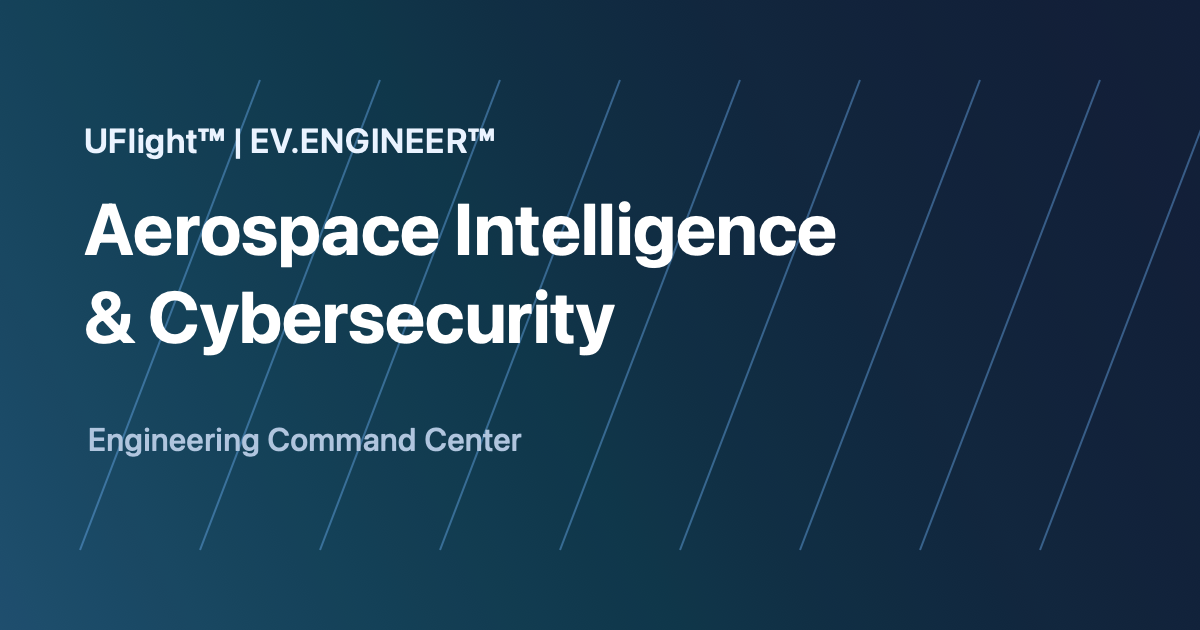
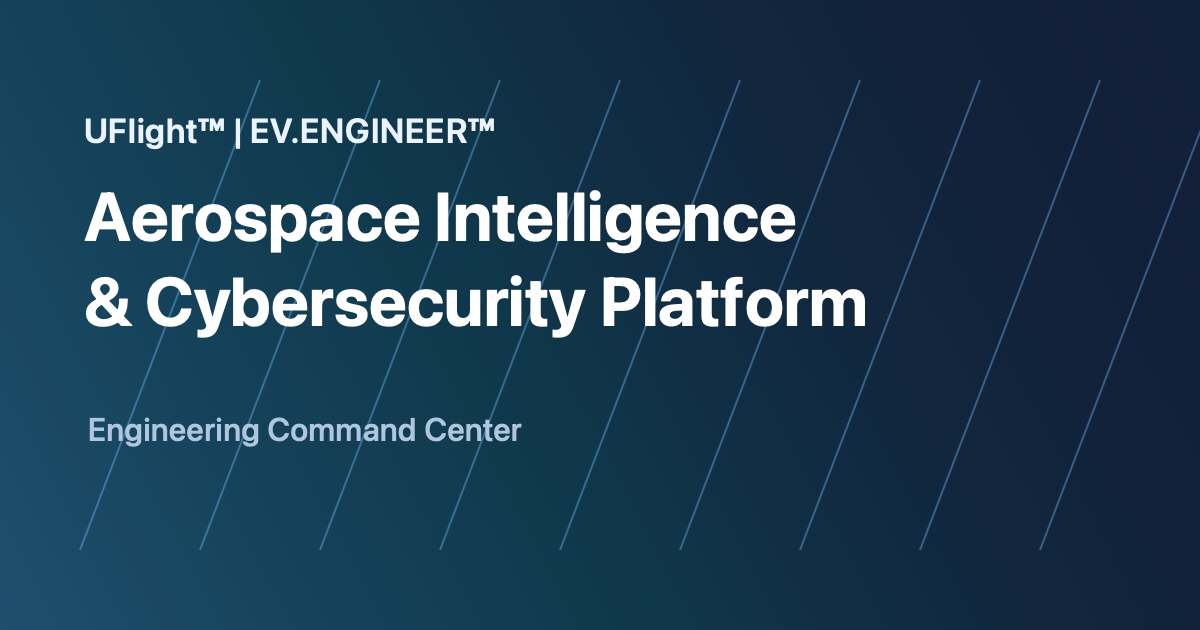
Fixed issue

Changed region(s): [[0.0617, 0.3016, 0.74, 0.573], [0.0617, 0.181, 0.4317, 0.2714], [0.0617, 0.6635, 0.4317, 0.7238]]

diff --git a/index.html b/index.html
@@ -3,29 +3,29 @@
   <head>
     <meta charset="UTF-8" />
     <meta name="viewport" content="width=device-width, initial-scale=1.0" />
-    <title>Aerospace Intelligence & Cybersecurity | UFlight™ EV.ENGINEER™</title>
+    <title>Aerospace Intelligence & Cybersecurity Platform | UFlight™ EV.ENGINEER™</title>
     <meta
       name="description"
-      content="UFlight™ EV.ENGINEER™ Aerospace Intelligence & Cybersecurity command center for engineering teams, intern programs, QA workflows, and mission-ready evidence."
+      content="UFlight™ EV.ENGINEER™ Aerospace Intelligence & Cybersecurity Platform command center for engineering teams, intern programs, QA workflows, and mission-ready evidence."
     />
     <meta
       name="keywords"
       content="aerospace intelligence, aerospace cybersecurity, engineering command center, UFlight, EV.ENGINEER, QA workflows, engineering evidence, intern program"
     />
-    <meta name="application-name" content="Aerospace Intelligence & Cybersecurity" />
-    <meta name="apple-mobile-web-app-title" content="Aerospace Intelligence & Cybersecurity" />
+    <meta name="application-name" content="Aerospace Intelligence & Cybersecurity Platform" />
+    <meta name="apple-mobile-web-app-title" content="Aerospace Intelligence & Cybersecurity Platform" />
     <meta name="robots" content="index, follow" />
     <meta name="theme-color" content="#0f172a" />
     <meta property="og:type" content="website" />
     <meta property="og:site_name" content="UFlight™ EV.ENGINEER™" />
-    <meta property="og:title" content="Aerospace Intelligence & Cybersecurity" />
+    <meta property="og:title" content="Aerospace Intelligence & Cybersecurity Platform" />
     <meta
       property="og:description"
       content="Engineering command center for aerospace intelligence, cybersecurity, QA workflows, and mission-ready evidence."
     />
     <meta property="og:image" content="/og-image.png" />
     <meta name="twitter:card" content="summary_large_image" />
-    <meta name="twitter:title" content="Aerospace Intelligence & Cybersecurity" />
+    <meta name="twitter:title" content="Aerospace Intelligence & Cybersecurity Platform" />
     <meta
       name="twitter:description"
       content="Engineering command center for aerospace intelligence, cybersecurity, QA workflows, and mission-ready evidence."

diff --git a/src/components/ui/EmailPreview.tsx b/src/components/ui/EmailPreview.tsx
@@ -53,7 +53,7 @@ function buildEmailHTML(
   <!-- Header -->
   <div class="header">
     <h1>UFlight™ | EV.ENGINEER™</h1>
-    <p>Battery Trust Platform · Intern Program 2026</p>
+    <p>Aerospace Intelligence & Cybersecurity Platform · Intern Program 2026</p>
   </div>
 
   <!-- Banner -->
@@ -66,7 +66,7 @@ function buildEmailHTML(
   <div class="section">
     <p style="font-size:15px; line-height:1.7;">Dear <strong>${dev.name}</strong>,</p>
     <p style="font-size:14px; color:#475569; line-height:1.7;">
-      Welcome to the <strong>UFlight™ | EV.ENGINEER™ Battery Trust Platform Internship Program 2026</strong>.
+      Welcome to the <strong>UFlight™ | EV.ENGINEER™ Aerospace Intelligence & Cybersecurity Platform Internship Program 2026</strong>.
       You have been assigned to build a critical engineering module for the ${a.product}.
       This document is your official engineering contract — please read it carefully and confirm acceptance by replying to this email.
     </p>
@@ -172,7 +172,7 @@ function buildEmailHTML(
   <div class="footer">
     <p><strong>Questions?</strong> Reply to this email or contact your mentor.</p>
     <p>Please reply <strong>"Accepted"</strong> to confirm you have read and understood this assignment.</p>
-    <p style="margin-top:16px; color:#cbd5e1;">UFlight™ | EV.ENGINEER™ Battery Trust Platform · Intern Program 2026</p>
+    <p style="margin-top:16px; color:#cbd5e1;">UFlight™ | EV.ENGINEER™ Aerospace Intelligence & Cybersecurity Platform · Intern Program 2026</p>
     <p style="margin-top:12px; color:#94a3b8; font-weight:700; font-size:12px;">iTelematics Software Private Limited</p>
     <p style="color:#94a3b8; font-size:11px;">Bangalore, India</p>
     <p style="margin-top:6px; font-size:11px;">

diff --git a/src/utils/htmlExport.ts b/src/utils/htmlExport.ts
@@ -242,7 +242,7 @@ export function generateStoryHtml(
 
   return shell(`
     <header class="hero">
-      <div class="brand"><h1>UFlight&trade; | EV.ENGINEER&trade;</h1><p>Battery Trust Platform</p></div>
+      <div class="brand"><h1>UFlight&trade; | EV.ENGINEER&trade;</h1><p>Aerospace Intelligence &amp; Cybersecurity Platform</p></div>
       <div class="hero-main">
         <p class="eyebrow">${value(story.product)} · ${value(story.workPackage)}</p>
         <h2>${value(story.title)}</h2>
@@ -364,7 +364,7 @@ export function generateSimulatorHtml(
 
   return shell(`
     <header class="hero">
-      <div class="brand"><h1>UFlight&trade; | EV.ENGINEER&trade;</h1><p>Battery Trust Platform</p></div>
+      <div class="brand"><h1>UFlight&trade; | EV.ENGINEER&trade;</h1><p>Aerospace Intelligence &amp; Cybersecurity Platform</p></div>
       <div class="hero-main">
         <p class="eyebrow">${value(simulator.product)}</p>
         <h2>${value(simulator.name)}</h2>

diff --git a/src/components/layout/Header.tsx b/src/components/layout/Header.tsx
@@ -60,7 +60,7 @@ export default function Header({ onMenuToggle }: HeaderProps) {
       <div className="h-6 w-px bg-slate-700 mx-1" />
 
       <div className="flex flex-col gap-0.5">
-        <span className="text-slate-200 font-semibold text-xs">Battery Trust Platform</span>
+        <span className="text-slate-200 font-semibold text-xs">Aerospace Intelligence &amp; Cybersecurity Platform</span>
         <span className="text-slate-500 text-[10px]">Engineering Command Center</span>
       </div>
 

diff --git a/src/components/layout/Sidebar.tsx b/src/components/layout/Sidebar.tsx
@@ -230,7 +230,7 @@ export default function Sidebar({ open, onClose }: SidebarProps) {
             ) : (
               <div className="text-[10px] text-slate-500 leading-relaxed">
                 <p className="font-semibold text-slate-400 mb-0.5">UFlight™ | EV.ENGINEER™</p>
-                <p>Battery Trust Platform</p>
+                <p>Aerospace Intelligence &amp; Cybersecurity Platform</p>
                 <p className="mt-1 text-slate-600 font-semibold">iTelematics Software Pvt. Ltd.</p>
                 <p>Bangalore, India</p>
                 <p>v1.0 · M03 · Intern Program 2026</p>

diff --git a/src/pages/Assignments.tsx b/src/pages/Assignments.tsx
@@ -65,7 +65,7 @@ export default function Assignments() {
     <div className="space-y-4">
       <PageHeader
         title="Assignments"
-        subtitle={`${assignments.length} engineering assignments · Battery Trust Platform Intern Program 2026`}
+        subtitle={`${assignments.length} engineering assignments · Aerospace Intelligence & Cybersecurity Platform Intern Program 2026`}
         icon={<ClipboardList size={18}/>}
       />
 

diff --git a/src/pages/DailyCheckin.tsx b/src/pages/DailyCheckin.tsx
@@ -88,7 +88,7 @@ export default function DailyCheckin() {
         </div>
         <span className="text-white font-bold text-sm">UFlight™ | EV.ENGINEER™</span>
         <span className="text-slate-600 text-sm ml-1">·</span>
-        <span className="text-slate-400 text-sm">Battery Trust Platform · Intern Program 2026</span>
+        <span className="text-slate-400 text-sm">Aerospace Intelligence &amp; Cybersecurity Platform · Intern Program 2026</span>
       </header>
 
       {/* Page content — same padding as dashboard Layout */}

diff --git a/src/pages/Dashboard.tsx b/src/pages/Dashboard.tsx
@@ -57,7 +57,7 @@ export default function Dashboard() {
       <div>
         <div className="flex items-center gap-2 mb-0.5">
           <Battery size={20} className="text-brand-600" />
-          <h1 className="text-xl font-bold text-slate-900">Battery Trust Platform</h1>
+          <h1 className="text-xl font-bold text-slate-900">Aerospace Intelligence &amp; Cybersecurity Platform</h1>
           <span className="ml-1 text-[10px] font-bold px-2 py-0.5 rounded-full bg-amber-100 text-amber-700 border border-amber-200 uppercase tracking-wide">AS 9102 Beta</span>
         </div>
         <p className="text-sm text-slate-500">Engineering Command Center &middot; Intern Program 2026 &middot; UFlight™ | EV.ENGINEER™</p>

diff --git a/src/pages/Developers.tsx b/src/pages/Developers.tsx
@@ -34,7 +34,7 @@ export default function Developers() {
     <div className="space-y-4">
       <PageHeader
         title="Developers"
-        subtitle={`${developers.length} interns assigned to Battery Trust Platform`}
+        subtitle={`${developers.length} interns assigned to Aerospace Intelligence & Cybersecurity Platform`}
         icon={<Users size={18} />}
       />
 

diff --git a/src/pages/Login.tsx b/src/pages/Login.tsx
@@ -50,7 +50,7 @@ export default function Login() {
             </div>
           </div>
           <h1 className="text-2xl font-bold text-white tracking-wide">UFlight™ | EV.ENGINEER™</h1>
-          <p className="text-slate-400 text-sm mt-1">Battery Trust Platform</p>
+          <p className="text-slate-400 text-sm mt-1">Aerospace Intelligence &amp; Cybersecurity Platform</p>
           <p className="text-slate-600 text-xs mt-0.5 tracking-widest uppercase">Engineering Command Center</p>
         </div>
 

diff --git a/src/pages/Profile.tsx b/src/pages/Profile.tsx
@@ -270,7 +270,7 @@ export default function Profile() {
           <SectionCard title="Platform Info" icon={<Shield size={14} />}>
             <InfoRow label="UID" value={userProfile.uid} />
             <InfoRow label="Role" value={userProfile.role} />
-            <InfoRow label="Organization" value="UFlight™ | EV.ENGINEER™ — Battery Trust Platform" />
+            <InfoRow label="Organization" value="UFlight™ | EV.ENGINEER™ — Aerospace Intelligence & Cybersecurity Platform" />
             <InfoRow label="Status" value={userProfile.status} />
             <InfoRow label="Member Since" value={new Date(userProfile.createdAt).toLocaleDateString('en-IN', { dateStyle: 'long' })} />
             <InfoRow label="Last Login" value={userProfile.lastLogin ? new Date(userProfile.lastLogin).toLocaleString('en-IN') : ''} />

diff --git a/src/pages/Reports.tsx b/src/pages/Reports.tsx
@@ -70,7 +70,7 @@ export default function Reports() {
     <div className="space-y-6">
       <PageHeader
         title="Reports"
-        subtitle="Assignment analytics and progress reports · Battery Trust Platform 2026"
+        subtitle="Assignment analytics and progress reports · Aerospace Intelligence & Cybersecurity Platform 2026"
         icon={<BarChart2 size={18}/>}
       />
 